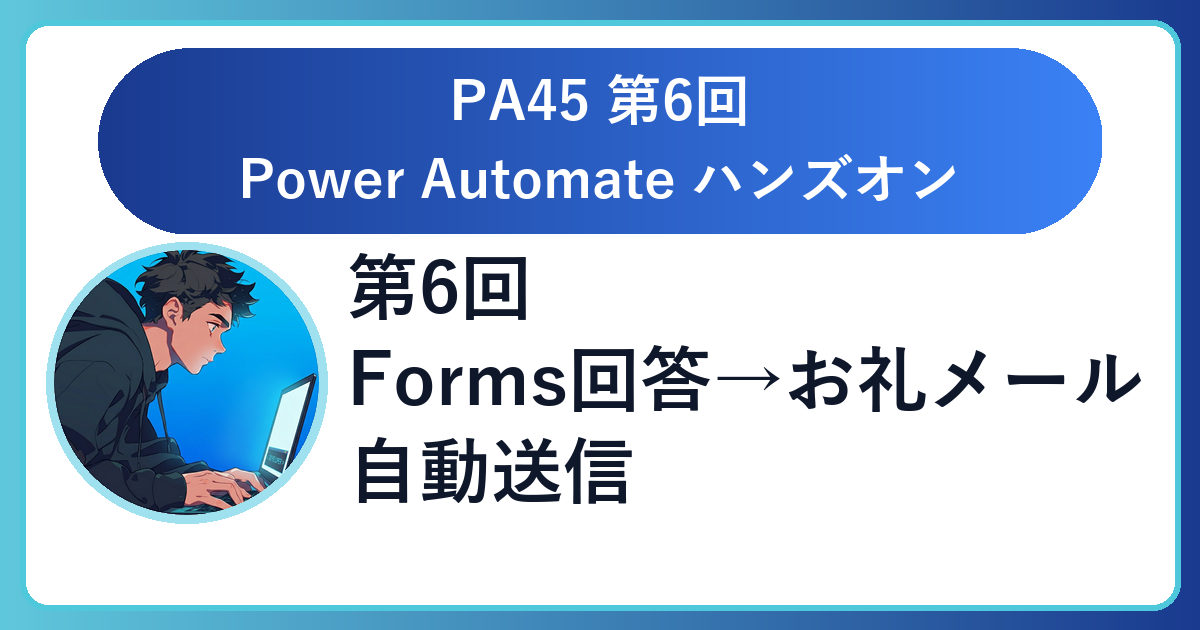
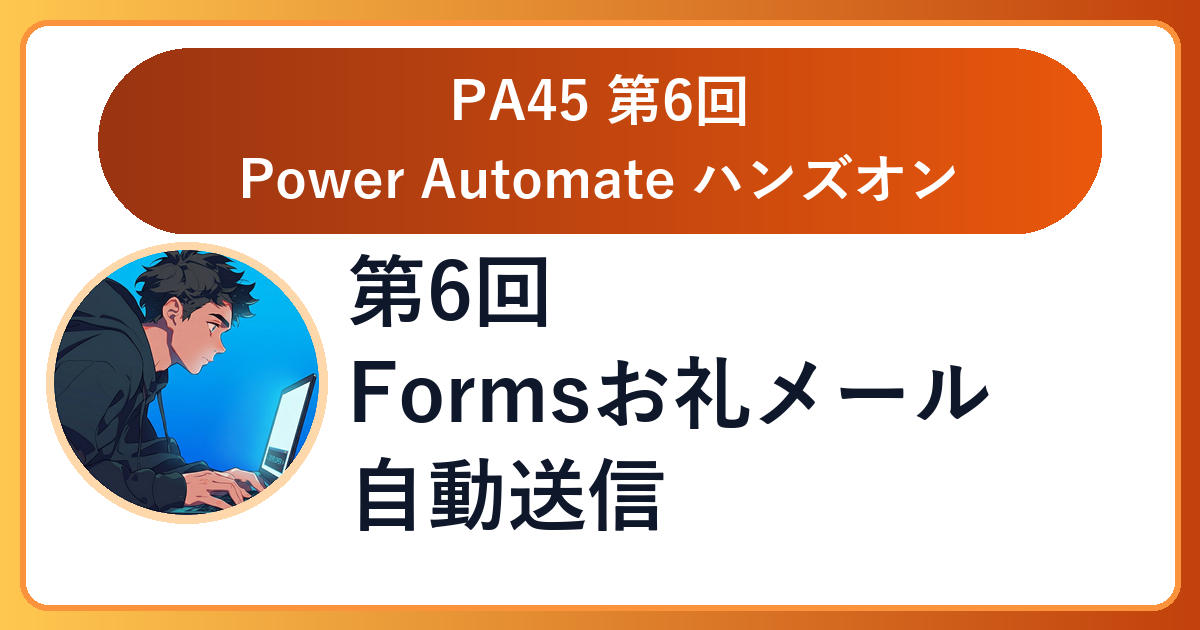
feat: 第6回YouTube公開後処理を完了
- evidence.youtube に https://youtu.be/rvSX575fdbo を追記
- sessions/index.html の第6回カードにYouTubeボタンを追加
- CLAUDE.md のYouTube動画URL記録テーブルに第6回を追記
- assets/ogp/pa45-vol6-thumb.png（サムネイル）を更新

diff --git a/sessions/index.html b/sessions/index.html
@@ -397,6 +397,8 @@
              target="_blank" rel="noopener" class="btn-slide-blog">📖 スライド解説ブログ →</a>
           <a href="../flows/vol-06/PA45-Vol06-FormsMail.zip"
              download="PA45-Vol06-FormsMail.zip" class="btn-slide-blog">⬇ フローZIPをダウンロード →</a>
+          <a href="https://youtu.be/rvSX575fdbo"
+             target="_blank" rel="noopener" class="btn-slide-blog">▶ YouTube動画を見る →</a>
         </div>
       </div>
 
